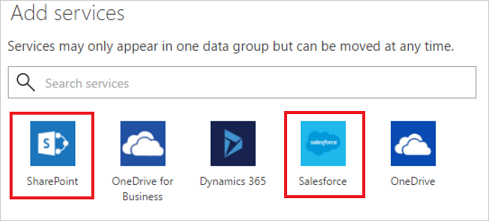
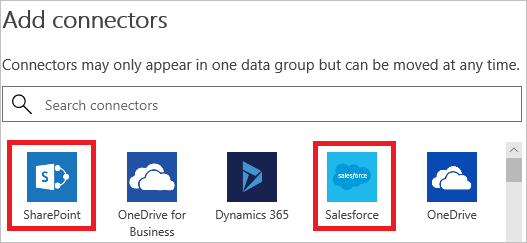
refresh dlp doc

diff --git a/flow-docs/prevent-data-loss.md b/flow-docs/prevent-data-loss.md
@@ -14,110 +14,139 @@ ms.devlang: na
 ms.topic: article
 ms.tgt_pltfrm: na
 ms.workload: na
-ms.date: 01/24/2016
+ms.date: 12/18/2017
 ms.author: deonhe
 
 ---
 # Data loss prevention (DLP) policies
+
+This document introduces you to data loss prevention policies, which help protect your organizational data from being shared with a list of connectors that you define.
+
 ## What is a data loss prevention policy?
-An organization's data is critical to its success. Its data needs to be readily available for decision-making but it needs to be protected so that it isn't shared with audiences that should not have access to it. To protect this data, Microsoft Flow (Flow) provides you with the ability to create and enforce policies that define which consumer services/connectors specific business data can be shared with. These policies that define how data can be shared are referred to as data loss prevention (DLP) policies.
+An organization's data is critical to its success. Its data needs to be readily available for decision-making but it needs to be protected so that it isn't shared with audiences that should not have access to it. To protect this data, Microsoft Flow provides you with the ability to create, and enforce policies that define which consumer connectors can access and share business data. These policies that define how data can be shared are referred to as data loss prevention (DLP) policies.
 
 ## Why create a DLP policy?
-You would create DLP policy to clearly define which consumer services business data may be shared with. For example, an organization that uses Flow may not want its business data that's stored in SharePoint to be automatically published to its Twitter feed. To prevent this, you can create a DLP policy that blocks SharePoint data from being used as the source for tweets.
+You create DLP policy to clearly define which consumer connectors may access and share your business data. For example, an organization that uses Microsoft Flow may not want its business data in SharePoint to be automatically published to its Twitter feed. To prevent this, you create a DLP policy that blocks SharePoint data from being used as the source for tweets.
 
 ## Benefits of a DLP policy
-* Ensures that data is managed in a uniform manner across the organization  
-* Prevents important business data from being accidentally published to services such as social media sites.   
+* Ensures that data is managed in a uniform manner across the organization.  
+* Prevents important business data from being accidentally published to connectors such as social media sites.
 
 ## Managing DLP policies
-**Prerequisites**  
-In order to create, edit, or delete DLP policies, the following items are required: 
+**Prerequisites**
 
-* Either environment admin or tenant admin permissions. You can learn more about permissions in the [environments topic](environments-overview-admin.md).  
-* A [Flow P2 license](billing-questions.md).  
+* Either environment admin or tenant admin permissions.
+
+    You can learn more about permissions in the [environments topic](environments-overview-admin.md).
+* A [Microsoft Flow P2 license](billing-questions.md).
 
 ## Create a DLP policy
-**Prerequisites**  
-In order to create a DLP policy, you must have permissions to at least one environment.  
+**Prerequisites**
+In order to create a DLP policy, you must have permissions to at least one environment.
 
-Follow these steps to create a DLP policy that prevents data that is stored in your company’s SharePoint from being published to Twitter:  
+Follow these steps to create a DLP policy that prevents data in your company’s SharePoint site from being published to Twitter:
 
-1. While on the Data Policies tab, select the **New policy** link:  
-   ![Sign in](./media/prevent-data-loss/create-policy-1.png)    
-2. Enter the name of the DLP policy as *Secure Data Access for Contoso* in the **Data Policy Name** label at the top of the page that opens:   
-   ![Sign in](./media/prevent-data-loss/create-policy-2.png)  
-3. Select the [environment](environments-overview-admin.md) on the **Applies to** tab.  
-   **Note:** As an environment admin, you can create policies that apply to only a single environment. As a tenant admin, you can create a policy that applies to all environments, one or more selected environments, or all environments except a selected set:  
-   ![Sign in](./media/prevent-data-loss/create-policy-3.png)  
-4. Select the **Data groups** tab:  
-   ![Sign in](./media/prevent-data-loss/create-policy-4.png)  
-5. Select the **+ Add** link located inside the **Business data only** group box:    
-   ![Sign in](./media/prevent-data-loss/create-policy-5.png)  
-6. Select the **SharePoint** and **Salesforce** services from the **Add services** page:  
-   ![Sign in](./media/prevent-data-loss/create-policy-6.png)  
-7. Select the **Add services** button to add the services that are allowed to share business data:    
-   ![Sign in](./media/prevent-data-loss/create-policy-7.png)  
-8. Select **Save Policy**:  
-   ![Sign in](./media/prevent-data-loss/create-policy-8.png)  
-9. After a few moments, your new DLP policy will be displayed in the data loss prevention policies list:  
-   ![Sign in](./media/prevent-data-loss/create-policy-9.png)  
+1. Sign into the [Microsoft Flow Admin center](https://admin.flow.microsoft.com).
+
+1. Select the Data Policies tab, and then select the **New policy** link:
+
+    ![Sign in](./media/prevent-data-loss/create-policy-1.png)
+1. Select the **Data groups** tab.
+
+2. Enter the name of the DLP policy as *Secure Data Access for Contoso* in the **Data Policy Name** label at the top of the page:
+
+    ![Sign in](./media/prevent-data-loss/create-policy-2.png)
+
+3. Select the [environment](environments-overview-admin.md) on the **Environments** tab.
+
+   **Note:** As an environment admin, you can create policies that apply to only a single environment. As a tenant admin, you can create policies that apply to any combination of environments:
+
+    ![Select environment](./media/prevent-data-loss/create-policy-3.png)
+
+4. Select the **Data groups** tab:
+
+    ![select data groups](./media/prevent-data-loss/create-policy-4.png)
+
+5. Select the **+ Add** link located inside the **Business data only** group box:
+
+    ![Select add](./media/prevent-data-loss/create-policy-5.png)
+
+6. Select the **SharePoint** and **Salesforce** connectors from the **Add connectors** page:
+
+   ![select connectors](./media/prevent-data-loss/create-policy-6.png)
+
+7. Select the **Add connectors** button to add the connectors that are allowed to share business data:
+
+8. Select **Save Policy** in the top right corner of the screen.
+
+9. After a few moments, your new DLP policy will be displayed in the data loss prevention policies list:
+
+    ![DLP list](./media/prevent-data-loss/create-policy-9.png)
+
 10. **Optional** Send an email or other communication to your team, alerting them that a new DLP policy is now available.
 
-Congratulations, you have now created a DLP policy that allows app to share data between SharePoint and Saleforce and blocks the sharing of data with any other services.  
+Congratulations, you've now created a DLP policy that allows app to share data between SharePoint and Saleforce and blocks the sharing of data with any other services.
 
-**Note**: Adding a service to one data group automatically removes it from the other data group. For example, if Twitter is currently located in the **business data only** data group, and you don't want to allow business data to be shared with Twitter, simply add the Twitter service to the **no business data allowed** data group. This will remove Twitter from the business data only data group.  
+**Note**: Adding a service to one data group automatically removes it from the other data group. For example, if Twitter is currently located in the **business data only** data group, and you don't want to allow business data to be shared with Twitter, simply add the Twitter service to the **no business data allowed** data group. This will remove Twitter from the business data only data group.
 
 ## Data sharing violations
-Assuming you have created the DLP policy outlined above, if a user creates a flow that shares data between Salesforce (which is in the **business data only** data group) and Twitter (which is in the **no business data allowed** data group), the user will be informed that the flow is **suspended** due to a conflict with the data loss prevention policy you created.  
-![create flow](./media/prevent-data-loss/10.png)  
+Assuming you've created the DLP policy outlined above, if a user creates a flow that shares data between Salesforce (which is in the **business data only** data group) and Twitter (which is in the **no business data allowed** data group), the user will be informed that the flow is **suspended** due to a conflict with the data loss prevention policy you created.
+
+![create flow](./media/prevent-data-loss/10.png)
 
 If your users contact you about suspended flows, here a few things to consider:  
 
-1. In this example, if there is a valid business reason to share business data between SharePoint and Twitter, you can edit the the DLP policy.  
-2. Ask the user to edit the flow to comply with the DLP policy.  
-3. Ask the user to leave the flow in the suspended state until a decision is made regarding the sharing of data between these two entities.  
+1. In this example, if there is a valid business reason to share business data between SharePoint and Twitter, you can edit the the DLP policy.
+
+2. Ask the user to edit the flow to comply with the DLP policy.
+
+3. Ask the user to leave the flow in the suspended state until a decision is made regarding the sharing of data between these two entities.
 
 ## Find a DLP policy
 ### Admins
-Admins can use the search feature from the Admin center to find specific DLP policies.  
+Admins can use the search feature from the Admin center to find specific DLP policies.
 
 **NOTE** Admins should publish all DLP policies so that users in the organization are aware of the policies prior to creating flows.
 
 ### Makers
-If you don't have admin permissions and you wish to learn more about the DLP policies in your organization, contact your administrator. You can also learn more from the [maker environments topic](environments-overview-maker.md)  
+If you don't have admin permissions and you wish to learn more about the DLP policies in your organization, contact your administrator. You can also learn more from the [maker environments topic](environments-overview-maker.md)
 
 **NOTE** Only admins can edit or delete DLP policies.  
 
 ## Edit a DLP policy
 1. Launch the Admin center by browsing to https://admin.flow.microsoft.com.  
-2. In the Admin center that launches, select the **Data polices** link on the left side.  
-   ![Sign in](./media/prevent-data-loss/2.png)  
-3. Search the list of existing DLP policies and select the edit button next to the policy you intend to edit:  
-   ![Sign in](./media/prevent-data-loss/3.png)  
-4. Make the changes you wish to make. You can modify the environment or the services in the data groups, for example.  
-5. Select **Save Policy** to save your changes:  
-   ![Sign in](./media/prevent-data-loss/create-policy-8.png)  
 
-Your policy has now been updated. You can confirm that the changes have been made to your policy by finding it in the data loss prevention policies list and reviewing its properties.   
+2. In the Admin center that launches, select the **Data polices** link on the left side.
+
+    ![select data policies](./media/prevent-data-loss/2.png)
+
+3. Search the list of existing DLP policies and select the edit button next to the policy you intend to edit.
+
+4. Make the necessary changes to the policy. You can modify the environment or the services in the data groups, for example.
+
+5. Select **Save Policy** to save your changes.
 
 **Note** DLP policies created by tenant admins can be viewed by environment admins but cannot be edited by environment admins.  
 
 ## Delete a DLP policy
-1. Launch the Admin center by browsing to https://admin.flow.microsoft.com.  
-2. In the Admin center that launches, select the **Data polices** link on the left side.  
-   ![Sign in](./media/prevent-data-loss/2.png)  
-3. Search the list of existing DLP policies and select the delete button next to the policy you intend to delete:  
-   ![Sign in](./media/prevent-data-loss/3-delete.png)  
-4. Confirm that you really want to delete the policy by selecting the **Delete** button:  
-   ![Sign in](./media/prevent-data-loss/4.png)  
+1. Launch the Admin center by browsing to https://admin.flow.microsoft.com.
 
-Your policy has now been deleted. You can confirm that the policy is no longer listed in the data loss prevention policies list by selecting the **Data Policies** link on the left and reviewing the list of policies.   
+2. Select the **Data polices** tab on the left side.
+
+    ![select data policies tab](./media/prevent-data-loss/2.png)
+
+3. Search the list of existing DLP policies, and then select the delete button next to the policy you intend to delete:
+
+    ![Select the delete button](./media/prevent-data-loss/3-delete.png)
+
+4. Confirm that you really want to delete the policy by selecting the **Delete** button:
+
+    ![confirm you really want to delete the policy](./media/prevent-data-loss/4.png)
 
 ## DLP policy permissions
-Only tenant and environment admins can create and modify DLP policies. Learn more about permissions in the [environments](environments-overview-admin.md) topic.  
+Only tenant and environment admins can create and modify DLP policies. Learn more about permissions in the [environments](environments-overview-admin.md) topic.
 
 ## Next steps
 * [Learn more about environments](environments-overview-admin.md)  
 * [Learn more about Microsoft Flow](getting-started.md)  
 * [Learn more about the admin center](admin-center-introduction.md)  
-
